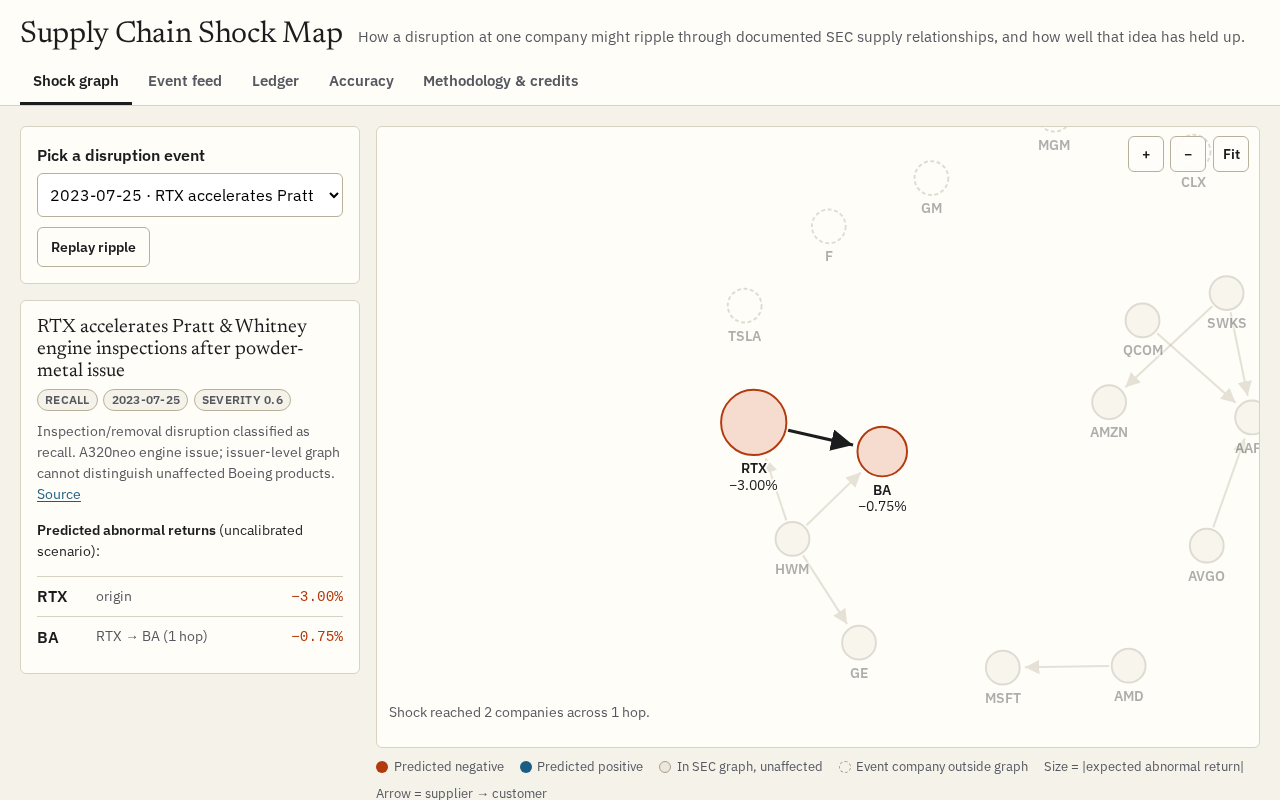
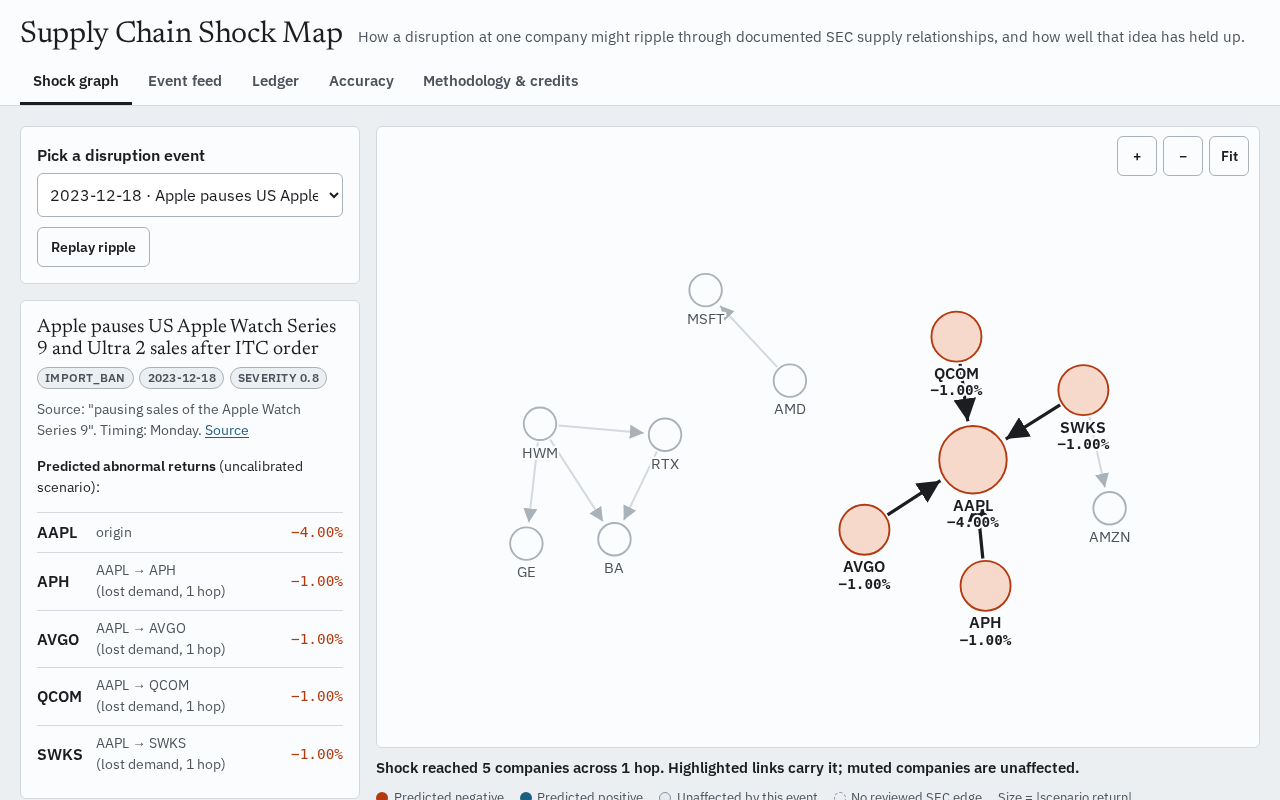
README: real 62-event results by relation group with caveats; fresh screenshots
Table generated from data/results.json: n, hit rate with cluster-bootstrap CI,
binomial p, model and zero MAE and their difference with CI, for direct,
downstream and upstream predictions at +1/+5/+20 days. States plainly that
propagation is not validated and +1 day MAE is worse than predicting zero.

diff --git a/README.md b/README.md
@@ -53,13 +53,13 @@ Open <http://localhost:8000>. Serve over HTTP because browsers restrict JSON fet
 
 | Shock graph (desktop) | Shock graph (390px mobile) |
 |---|---|
-| ![RTX engine-inspection event rippling to Boeing over an SEC-documented supplier edge](docs/screenshots/graph-desktop.png) | ![Same view on a 390px phone with touch pan and zoom](docs/screenshots/graph-mobile.png) |
+| ![Apple Watch import-ban event rippling upstream to four SEC-documented Apple suppliers](docs/screenshots/graph-desktop.png) | ![Same view on a 390px phone with touch pan and zoom](docs/screenshots/graph-mobile.png) |
 
-![Accuracy dashboard: MAE versus zero and sector baselines, hit rates and predicted-vs-realized scatter](docs/screenshots/accuracy-desktop.png)
+![Accuracy dashboard: per-relation stats table, hit-rate and MAE-versus-zero forest plots with bootstrap intervals](docs/screenshots/accuracy-desktop.png)
 
 ![Ledger viewer recomputing the SHA-256 hash chain in the browser](docs/screenshots/ledger-desktop.png)
 
-Picking an event animates the shock hop by hop: color is predicted direction, node size is the magnitude of the expected abnormal return, and tapping a company or edge shows its SEC evidence sentence and filing. The ledger view recomputes every hash with Web Crypto and compares the head with the Python verifier's exported head; "Simulate tampering" edits an in-memory copy to show the chain breaking. The accuracy charts read `results.json` directly, so they always show the latest backtest numbers. Animations respect `prefers-reduced-motion`.
+Picking an event animates the shock hop by hop: color is predicted direction, muted nodes are unaffected, node size is the magnitude of the expected abnormal return, and tapping a company or edge shows its SEC evidence sentence and filing. The ledger view recomputes every hash with Web Crypto and compares the head with the Python verifier's exported head; "Simulate tampering" edits an in-memory copy to show the chain breaking. The accuracy charts read `results.json` directly, so they always show the latest backtest numbers. Animations respect `prefers-reduced-motion`.
 
 `python -m scsm --help` documents all commands. `propagate --event ID` selects an event; `ledger append --event ID` appends it once. Default `ledger append` appends all cached events with predictions. **Historical events appended now are labeled historical replays and excluded from prospective scores.** Do not interpret them as past forecasts.
 
@@ -69,28 +69,46 @@ For live ingestion run `python -m scsm ingest`. For missing price retrieval use 
 
 Only a real subset is shipped: **12 nodes and 10 reviewed edges from 14 primary 2021 SEC filings**. SEC-derived relationships, evidence sentences, filing URLs, dates and source hashes are preserved in `data/graph.json` and `data/sec/`. The provenance report explains the inclusion review and rejected keyword candidates. Filings are historical snapshots, not a complete or current map of the S&P 500. The graph intentionally excludes ambiguous matches and unverified relationships.
 
-Supplier → customer is the direction of a disruption. Base issuer shock is signed severity × 5 percentage points; each hop multiplies the prior magnitude by edge weight × 0.5, up to three hops. Missing measured exposures use an explicitly labeled heuristic weight. Extraction confidence is not a financial exposure measurement. The strongest simple path per ticker is retained, rather than summing overlapping paths. Cycles cannot amplify shocks. Filings dated after an event are excluded from its scenario. Competitor substitution is supported only for explicitly labeled competitor inputs; no competitor or supplier links are invented from shared sectors.
+A disruption at a supplier travels downstream to its customers (lost supply); a disruption at a customer travels upstream to its suppliers (lost demand). A path never changes direction, so a shock cannot zig-zag into an unrelated sibling supplier. Base issuer shock is signed severity × 5 percentage points; each hop multiplies the prior magnitude by edge weight × 0.5, up to three hops. Missing measured exposures use an explicitly labeled heuristic weight. Extraction confidence is not a financial exposure measurement. The strongest simple path per ticker is retained, rather than summing overlapping paths. Cycles cannot amplify shocks. Filings dated after an event are excluded from its scenario. Competitor substitution is supported only for explicitly labeled competitor inputs; no competitor or supplier links are invented from shared sectors.
 
 Severity, decay and magnitude are modeling choices, not estimated returns. Expected abnormal return percentages are signed and use the same scenario scale at each study horizon; no horizon calibration is claimed. Entity matching uses the cached real S&P 500 constituent list and aliases. Short and ambiguous names are handled conservatively; headline matching and keyword classification still make mistakes. News publication dates can differ from the underlying disruption date.
 
 ## Results and findings
 
-Executed on the checked-in adjusted-price caches: **8 real historical events, 10 ticker predictions per horizon (9 direct issuer, 1 downstream)**. No observations were excluded in this run. All values below are calculated by `python -m scsm backtest`, not invented. MAE units are percentage points of CAR. Brackets show the event-cluster bootstrap 95% interval for hit rate; full intervals for correlation, MAE and both baselines are in `data/results.json`.
+Executed on the checked-in adjusted-price caches with `python -m scsm backtest`: **62 real historical events** (strikes, recalls, export/import bans, plant shutdowns, cyberattacks and IT outages, supplier quality escapes, 2021-03 to 2025-10), **106 ticker predictions per horizon**: 66 direct issuer, 5 downstream, 35 upstream. Propagated predictions come from 19 of the 62 events; no observation was excluded. Every event in `data/events/historical.json` links a source (SEC filing, company or regulator release, or major news) that was fetched and found to contain the quoted text confirming the event and its date.
 
-| Trading horizon | n | Directional hit rate [95% CI] | Pearson | Spearman | Model MAE | Zero MAE | Sector control MAE |
-|---|---:|---|---:|---:|---:|---:|---:|
-| +1 | 10 | 80% [56%, 100%] | 0.857 | 0.555 | 3.215 | 3.183 | 3.145 |
-| +5 | 10 | 40% [9%, 78%] | 0.871 | 0.884 | 4.752 | 4.508 | 4.750 |
-| +20 | 10 | 70% [36%, 100%] | 0.640 | 0.507 | 4.777 | 5.410 | 6.048 |
+MAE is in percentage points of CAR. CIs are percentile intervals from 10,000 event-cluster bootstrap resamples (seed 2026). p is an exact two-sided binomial test of the hit rate against 50%. "Model − zero" is model MAE minus the MAE of always predicting 0; negative means the model beat zero.
 
-The model's +1 and +5 MAE are **worse than predicting zero**, and the +5 directional hit rate is only 40%. The +20 MAE is lower than zero on this sample, with broad uncertainty. High correlations in such a small selected cohort do not establish forecasting skill. One downstream observation cannot validate supply-chain propagation. The RTX engine-inspection example also exposes a product mismatch: an issuer-level RTX→Boeing edge does not mean an A320neo-specific issue affects Boeing's aircraft. This is a concrete model limitation, retained rather than hidden.
+| Horizon | Group | n (events) | Hit rate [95% CI] | p vs 50% | Model MAE | Zero MAE | Model − zero [95% CI] |
+|---|---|---:|---|---:|---:|---:|---|
+| +1 | All | 106 (62) | 62% [52%, 72%] | 0.015 | 2.45 | 1.79 | +0.66 [+0.27, +1.04] |
+| +1 | Direct issuer | 66 (62) | 73% [62%, 83%] | <0.001 | 3.18 | 2.29 | +0.89 [+0.29, +1.46] |
+| +1 | Downstream (lost supply) | 5 (5) | 20% [0%, 60%] | 0.375 | 2.66 | 2.21 | +0.45 [−0.30, +0.90] |
+| +1 | Upstream (lost demand) | 35 (17) | 49% [29%, 66%] | 1.000 | 1.04 | 0.80 | +0.25 [+0.01, +0.49] |
+| +5 | All | 106 (62) | 54% [43%, 65%] | 0.497 | 3.28 | 2.89 | +0.39 [−0.12, +0.89] |
+| +5 | Direct issuer | 66 (62) | 55% [42%, 67%] | 0.539 | 3.98 | 3.43 | +0.55 [−0.23, +1.31] |
+| +5 | Downstream (lost supply) | 5 (5) | 20% [0%, 60%] | 0.375 | 4.11 | 3.56 | +0.55 [−0.10, +0.95] |
+| +5 | Upstream (lost demand) | 35 (17) | 57% [37%, 81%] | 0.500 | 1.84 | 1.79 | +0.05 [−0.32, +0.36] |
+| +20 | All | 106 (62) | 63% [53%, 73%] | 0.008 | 5.63 | 5.93 | −0.30 [−0.79, +0.20] |
+| +20 | Direct issuer | 66 (62) | 68% [56%, 79%] | 0.004 | 5.82 | 6.28 | −0.46 [−1.19, +0.30] |
+| +20 | Downstream (lost supply) | 5 (5) | 20% [0%, 60%] | 0.375 | 9.08 | 8.53 | +0.55 [−0.10, +0.95] |
+| +20 | Upstream (lost demand) | 35 (17) | 60% [43%, 79%] | 0.311 | 4.77 | 4.90 | −0.13 [−0.44, +0.16] |
+
+What this says, and does not:
+
+- **Direction of the directly hit company is informative; size is not.** Direct-issuer signs were right 73% of the time at +1 day and 68% at +20 days. But at +1 day the model's MAE is *worse* than predicting zero (CI excludes 0): the fixed 5% × severity scenario overstates typical next-day moves.
+- **Supply-chain propagation is not validated.** Upstream (lost-demand) predictions are coin-flip accurate at +1 day and statistically indistinguishable from 50% and from zero error at every horizon. Only 5 downstream (lost-supply) observations exist; 1 of 5 had the right sign.
+- **No horizon shows the model beating zero on error with a CI that excludes 0.** The +20 day overall difference (−0.30 pp) has a CI spanning zero.
+- p-values assume independent predictions. Several predictions share an event, so they overstate evidence; the cluster bootstrap CIs are the more honest interval. Twelve comparisons are reported without multiple-testing correction.
+
+Caveats: the event list is a hand-selected convenience sample, not every shock in the period, and it leans toward large, well-reported disruptions. Several events overlap in time (e.g. Boeing 2023–2024 quality issues, Tesla factory halts), so windows are not independent. Event severities and edge weights are uncalibrated assumptions. The SEC graph is small (12 companies, 10 edges from 2021 10-Ks) and may be stale for 2024–2025 events. Sector peers and entity matching use the current S&P 500 list, not point-in-time membership, which adds survivorship bias. Dates are day-level; intraday disclosures lose their same-day reaction, while weekend and holiday disclosures anchor to the prior session so the first trading reaction is captured. Yahoo adjusted prices can be revised. Correlation and same-sector-control metrics remain in `data/results.json` and the Accuracy tab.
 
 Live GDELT acquisition was attempted and the request status is cached in `data/events/gdelt-*.json`; when rate-limited it contributes **no invented events**. The initial ledger is timestamped at this build and contains real historical-event replay scenarios. There are no matured prospective scores yet. Prospective performance is unavailable, not 0%.
 
 
 The historical cohort is deliberately small and curated. It cannot establish a tradable edge. See `data/results.json` for individual event/ticker/horizon observations, model fit, exclusions and uncertainty intervals. Numerical claims must be read alongside sample size and the following limits.
 
-The event study adapts EventStudy's OLS market model: fit stock return = alpha + beta × SPY return on trading days -250..-11. CAR is the sum of residuals on +1 through +1/+5/+20, excluding day 0. A weekend event anchors to the next available shared trading date. Adjusted daily close data are used; publication time and after-hours effects are not modeled. Full horizons must exist, and insufficient estimation histories are excluded. Event overlap, selection bias, current constituent survivorship, stale graph coverage and uncalibrated severities limit interpretation. Bootstrap intervals describe resampling uncertainty within this cohort, not a guarantee of future performance.
+The event study adapts EventStudy's OLS market model: fit stock return = alpha + beta × SPY return on trading days -250..-11. CAR is the sum of residuals on +1 through +1/+5/+20, excluding day 0. Day 0 is the last shared trading session on or before the disclosure date, so a weekend or holiday disclosure is first measured on the next session. Adjusted daily close data are used; publication time and after-hours effects are not modeled. Full horizons must exist, and insufficient estimation histories are excluded. Event overlap, selection bias, current constituent survivorship, stale graph coverage and uncalibrated severities limit interpretation. Bootstrap intervals describe resampling uncertainty within this cohort, not a guarantee of future performance.
 
 The zero-return baseline is deployable as a no-effect forecast. The same-sector average uses contemporaneous realized peer CARs and is labeled an **ex-post control**, not an available-at-prediction forecast. Missing peer observations must be reported rather than treated as zero. Historical replay accuracy and prospective ledger accuracy are distinct throughout the interface.
 
